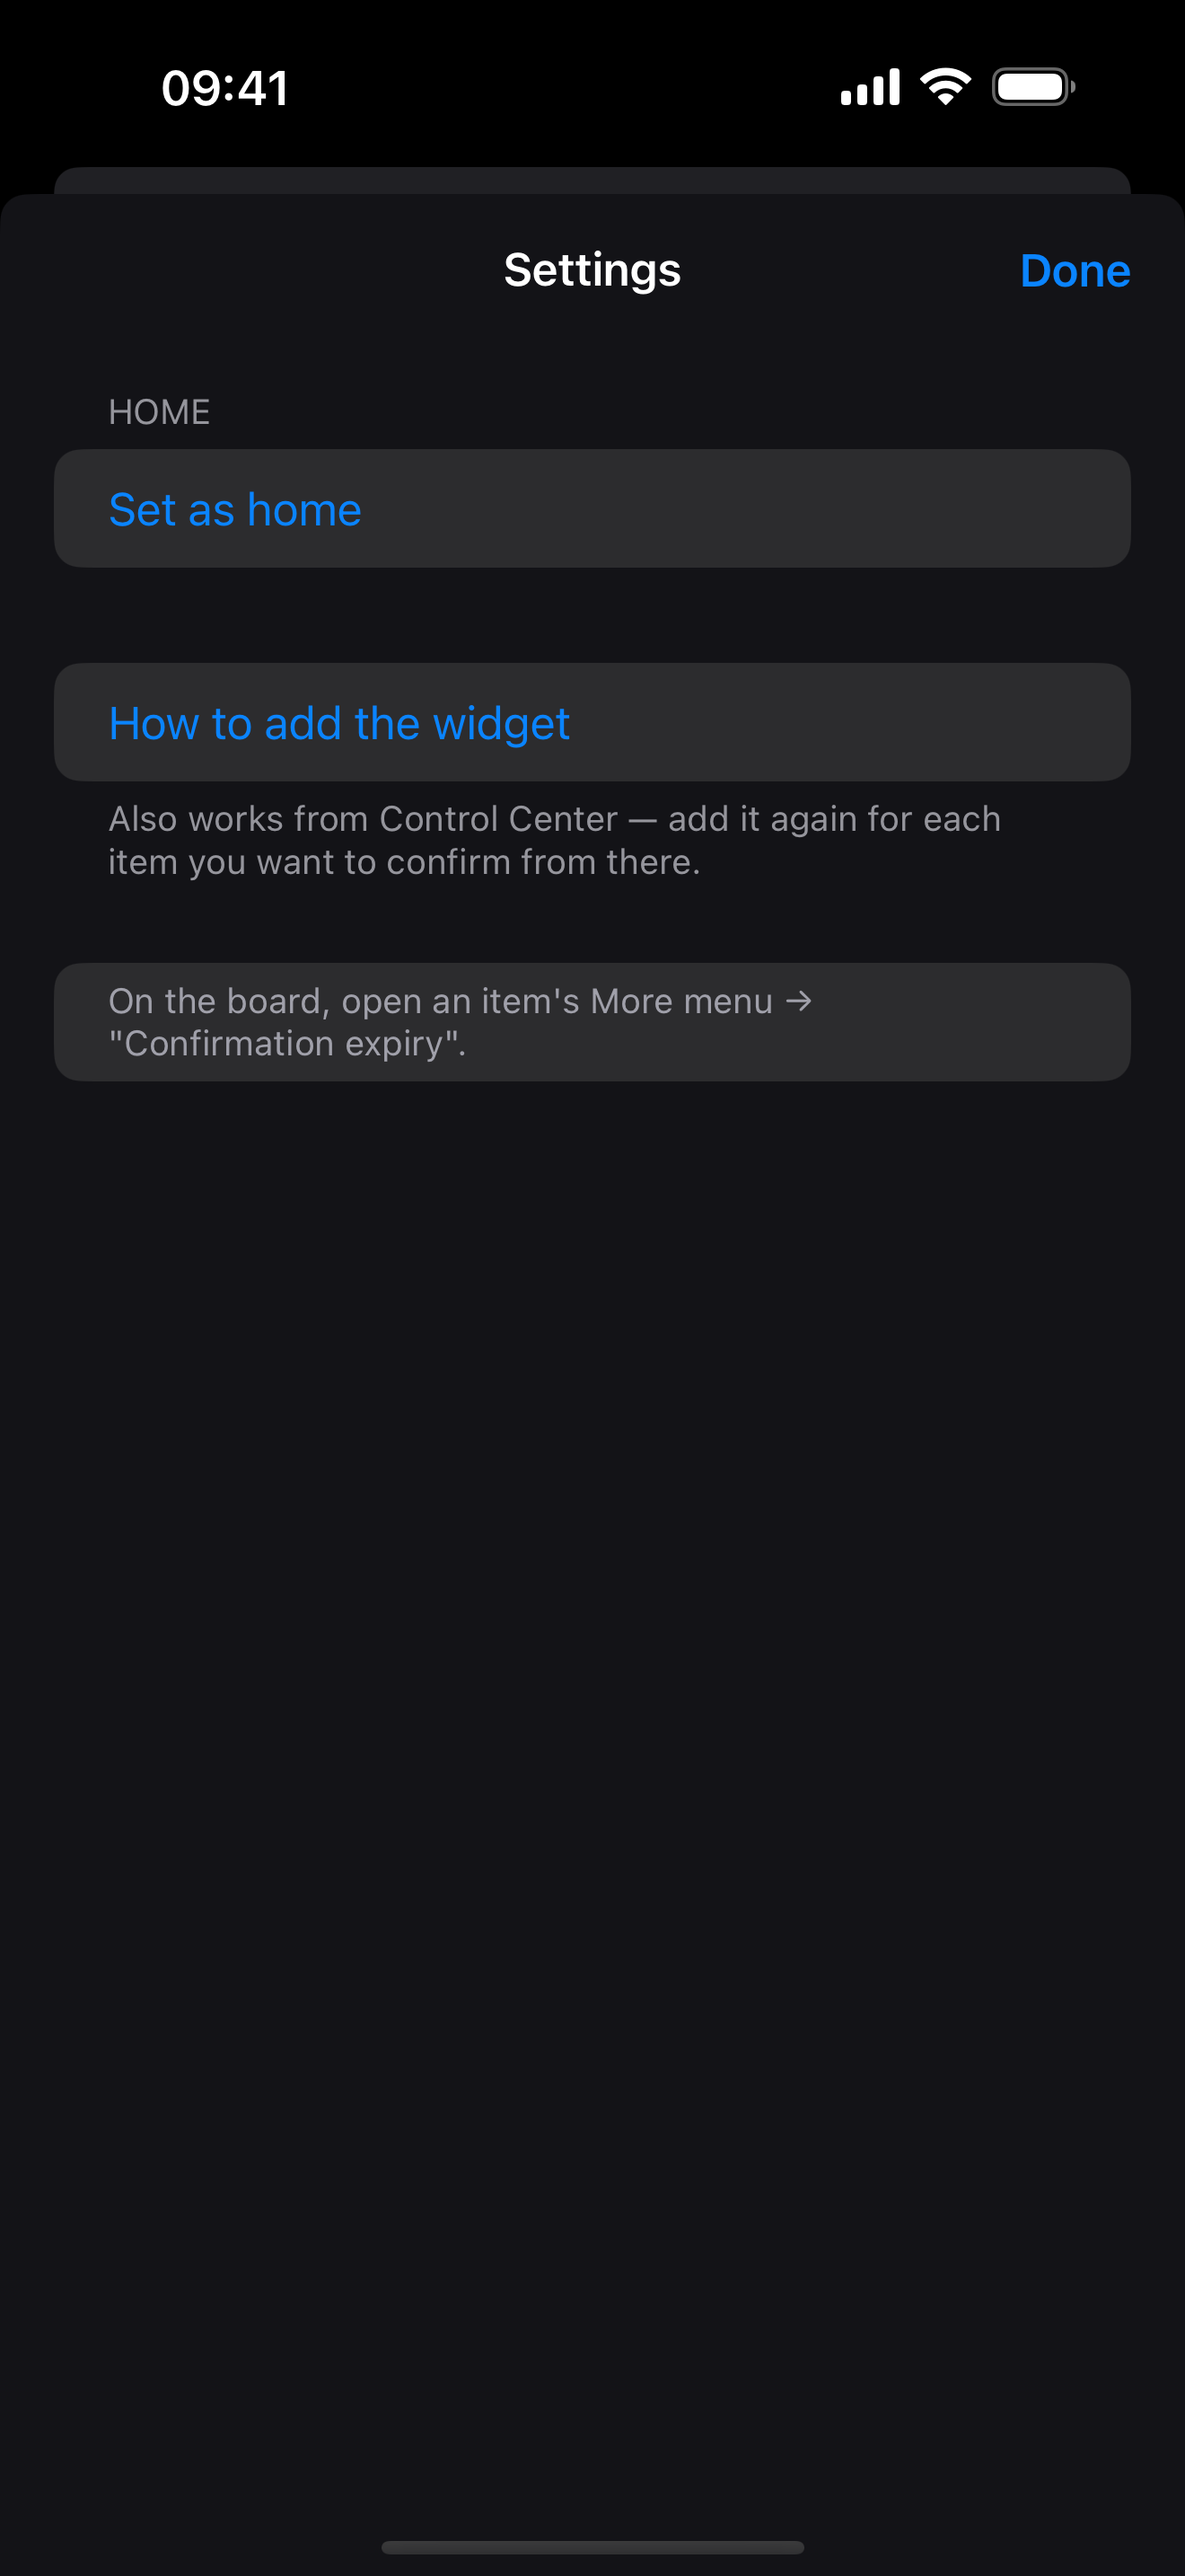
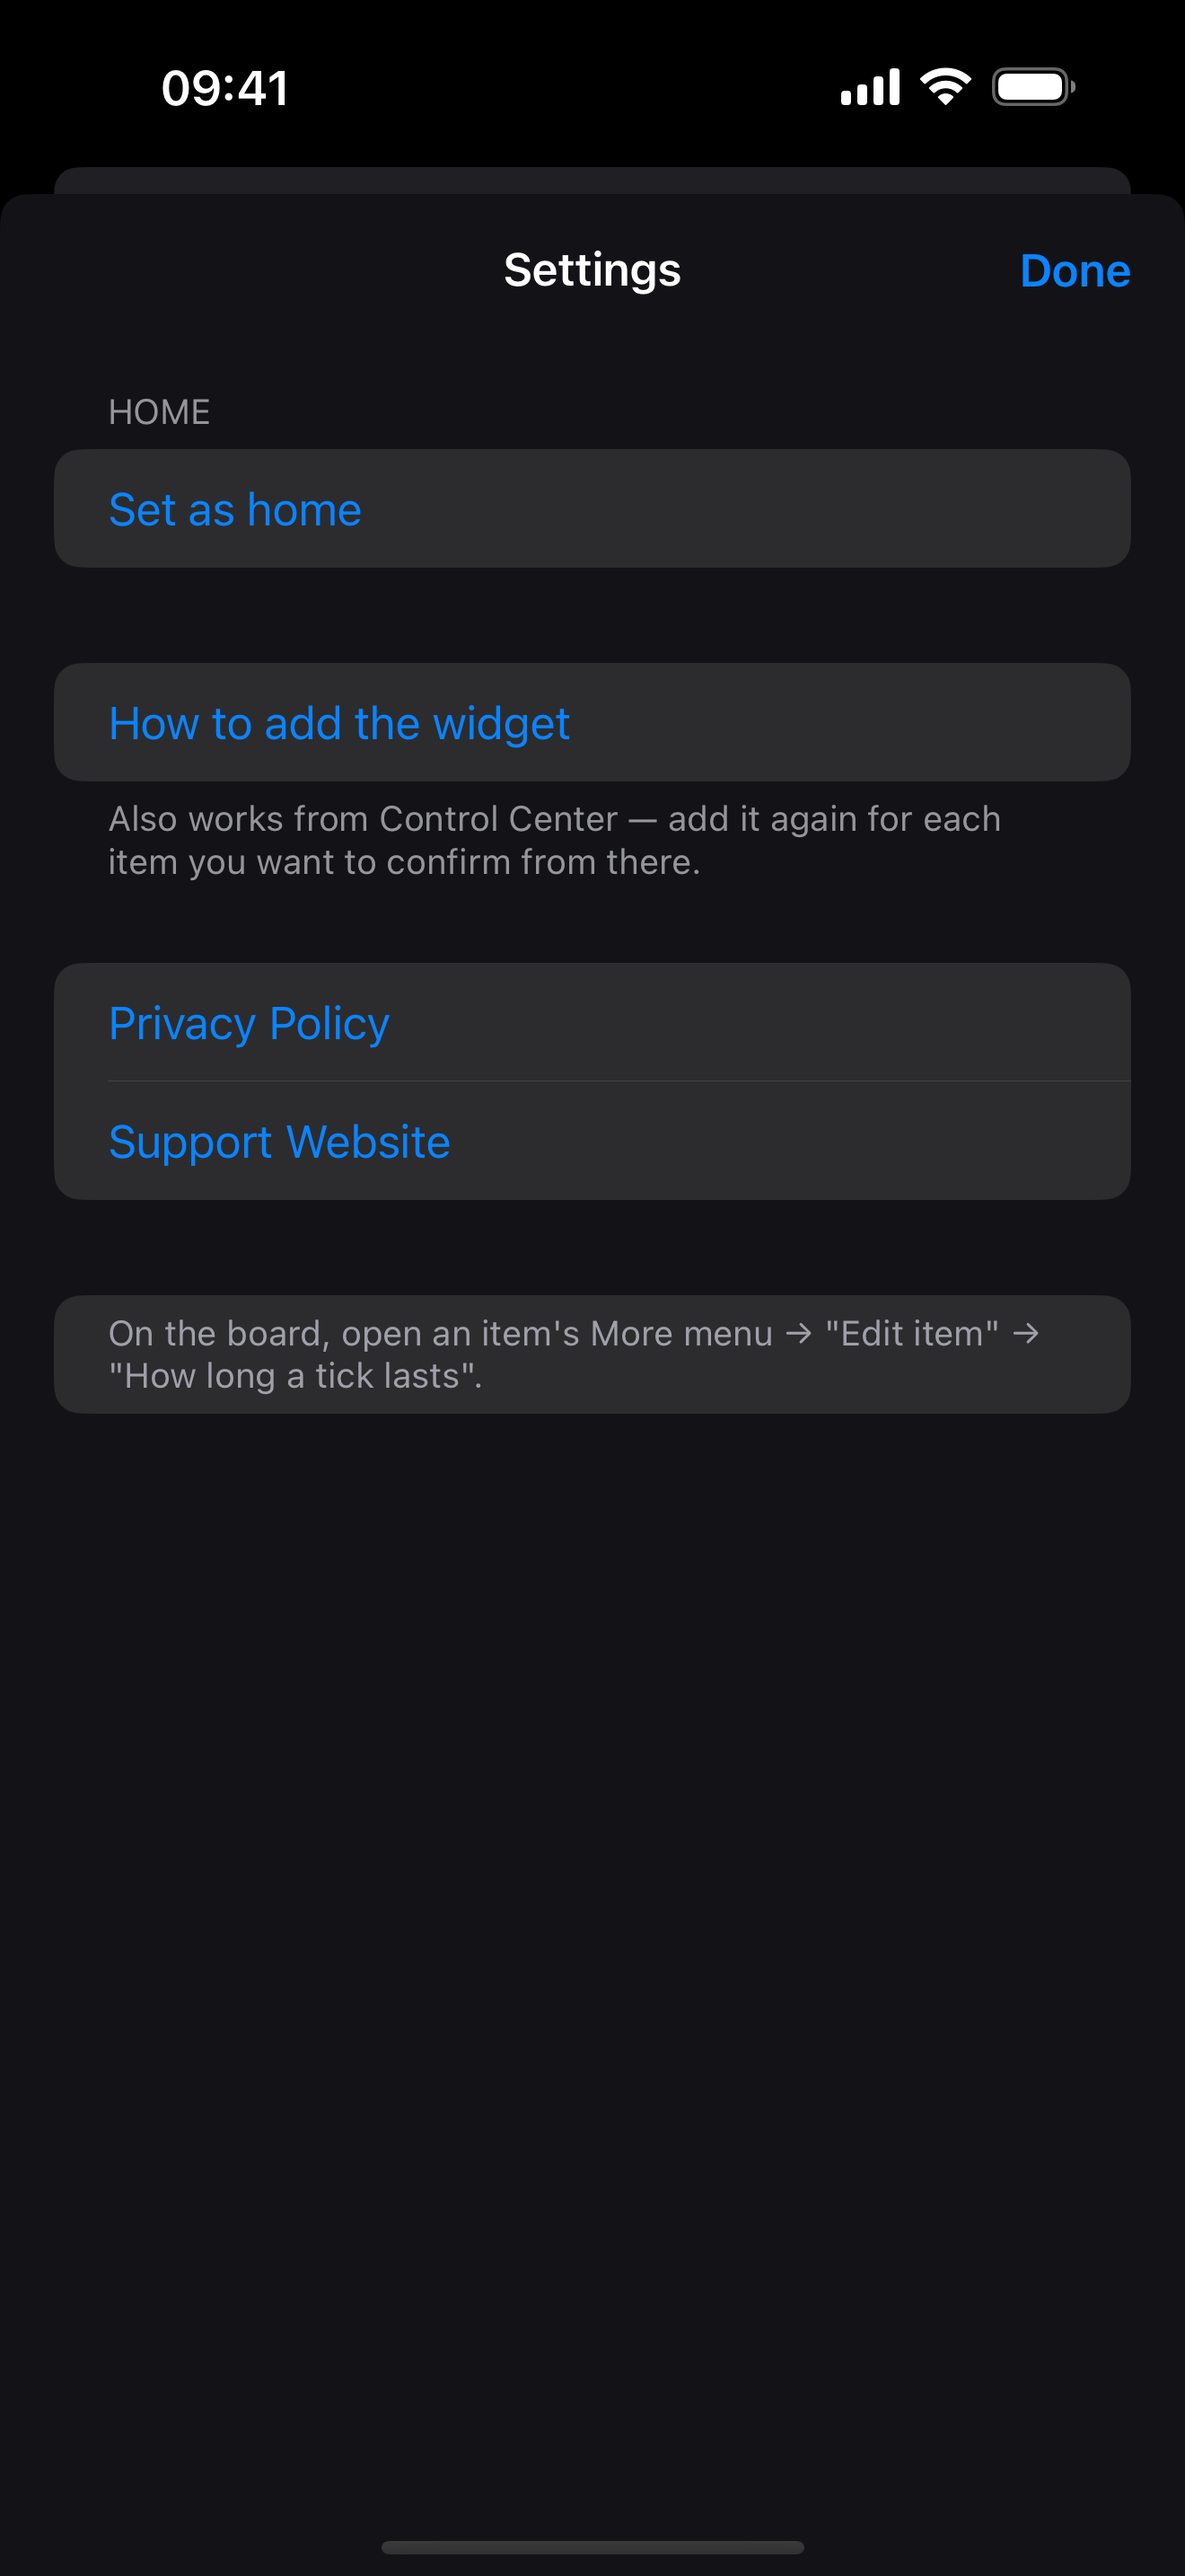
added pre-release artifacts

Changed region(s): [[0.0311, 0.3724, 0.9629, 0.4655], [0.0311, 0.4965, 0.9629, 0.5586]]

diff --git a/DidI/SettingsView.swift b/DidI/SettingsView.swift
@@ -127,6 +127,11 @@ struct SettingsView: View {
                     Text(Copy.controlCenterHint)
                 }
 
+                Section {
+                    Link(Copy.privacyPolicy, destination: AppLinks.privacy)
+                    Link(Copy.supportWebsite, destination: AppLinks.support)
+                }
+
                 if let price = TipJar.shared.product?.displayPrice {
                     Section {
                         Button(Copy.TipJar.rowTitle(price: price)) {
@@ -256,6 +261,11 @@ struct SettingsView: View {
             showingTipError = true
         }
     }
+}
+
+private enum AppLinks {
+    static let privacy = URL(string: "https://guestdi.github.io/did_i/privacy/")!
+    static let support = URL(string: "https://guestdi.github.io/did_i/support/")!
 }
 
 /// Pre-filled share sheet for "Ask someone at home".

diff --git a/DidICore/Sources/DidICore/Copy.swift b/DidICore/Sources/DidICore/Copy.swift
@@ -363,6 +363,8 @@ public enum Copy {
     public static let dismiss = t("Dismiss")
     public static let ok = t("OK")
     public static let settings = t("Settings")
+    public static let privacyPolicy = t("Privacy Policy")
+    public static let supportWebsite = t("Support Website")
     public static let saveFailedTitle = t("Couldn't save that")
     public static let saveFailedBody = t("Your previous record is unchanged. Try again.")
     public static let loadFailedTitle = t("Couldn't open your board")

diff --git a/Tests/UI/AppStoreScreenshotUITests.swift b/Tests/UI/AppStoreScreenshotUITests.swift
@@ -20,6 +20,9 @@ final class AppStoreScreenshotUITests: XCTestCase {
         ).firstMatch
         XCTAssertTrue(practiceRow.waitForExistence(timeout: 3))
         practiceRow.tap()
+        // FlapCell animates each character for 0.28s. Capturing immediately
+        // records both faces on top of one another instead of the settled UI.
+        Thread.sleep(forTimeInterval: 0.6)
         capture("02-one-tap-confirmation")
 
         app.terminate()

diff --git a/AppStore/metadata/ru-RU.md b/AppStore/metadata/ru-RU.md
@@ -6,7 +6,7 @@
 
 **Промотекст (170):** Подтвердите действие перед уходом, а при сомнении взгляните на виджет. Без аккаунта, рекламы и отслеживания.
 
-**Ключевые слова (100 байт):** плита,дверь,замок,список,виджет,дом,проверка
+**Ключевые слова (100 байт):** плита,дверь,замок,список,виджет,дом,проверка,утюг
 
 ## Описание
 
@@ -16,7 +16,7 @@ Did I? даёт точное время вместо догадок.
 
 • Подтверждайте домашние дела одним касанием
 • Смотрите время последнего подтверждения
-• Выбирайте срок действия: заданный интервал, ежедневно до 4:00, до выхода из дома или вручную
+• Выбирайте срок действия: заданный интервал, ежедневно до 4:00, до возвращения домой или вручную
 • Отменяйте случайное касание
 • Добавляйте виджеты для быстрого подтверждения и просмотра статуса
 • Проверяйте недавние подтверждения на Apple Watch
@@ -29,6 +29,12 @@ Did I? даёт точное время вместо догадок.
 • Без серверов разработчика
 • Данные остаются на ваших устройствах
 
-Геопозиция необязательна. Если выбрать «Когда я уйду из дома», Did I? создаст обрабатываемую на устройстве границу области и завершит подтверждение после вашего ухода. Геопозиция нам не отправляется.
+Геопозиция необязательна. Если выбрать «Когда я вернусь домой», Did I? создаст обрабатываемую на устройстве границу области и завершит подтверждение после вашего возвращения. Геопозиция нам не отправляется.
 
 Did I? помогает памяти, но не является системой безопасности. Всё важное всегда проверяйте лично.
+
+## URL-адреса
+
+- Маркетинг: https://guestdi.github.io/did_i/
+- Поддержка: https://guestdi.github.io/did_i/support/
+- Конфиденциальность: https://guestdi.github.io/did_i/privacy/

diff --git a/AppStore/metadata/pl-PL.md b/AppStore/metadata/pl-PL.md
@@ -6,7 +6,7 @@
 
 **Tekst promocyjny (170):** Potwierdź przed wyjściem, a gdy wróci niepewność, zerknij na widżet. Bez konta, reklam i śledzenia.
 
-**Słowa kluczowe (100 bajtów):** kuchenka,drzwi,zamek,lista,przypomnienie,widżet,dom,potwierdzenie,spokój
+**Słowa kluczowe (100 bajtów):** kuchenka,drzwi,zamek,lista,przypomnienie,widżet,dom,rutyna,urządzenie,sprawdź
 
 ## Opis
 
@@ -16,7 +16,7 @@ Stuknij raz po wyłączeniu kuchenki, zamknięciu drzwi, odłączeniu żelazka l
 
 • Potwierdzaj domowe czynności jednym stuknięciem
 • Sprawdzaj czas ostatniego potwierdzenia
-• Ustal wygaśnięcie: po określonym czasie, codziennie o 4:00, po wyjściu z domu albo ręcznie
+• Ustal wygaśnięcie: po określonym czasie, codziennie o 4:00, po powrocie do domu albo ręcznie
 • Cofnij przypadkowe stuknięcie
 • Dodaj widżety do szybkiego potwierdzania i sprawdzania stanu
 • Sprawdzaj ostatnie potwierdzenia na Apple Watch
@@ -29,7 +29,12 @@ Prywatność od podstaw:
 • Bez serwera dewelopera
 • Dane pozostają na Twoich urządzeniach
 
-Lokalizacja jest opcjonalna. Jeśli wybierzesz „Gdy wyjdę z domu”, Did I? użyje granicy obszaru przetwarzanej na urządzeniu, aby wygasić potwierdzenia po wyjściu. Twoja lokalizacja nie jest nam wysyłana.
+Lokalizacja jest opcjonalna. Jeśli wybierzesz „Gdy wrócę do domu”, Did I? użyje granicy obszaru przetwarzanej na urządzeniu, aby wygasić potwierdzenia po powrocie. Twoja lokalizacja nie jest nam wysyłana.
 
 Did I? pomaga pamiętać, ale nie jest systemem bezpieczeństwa. Ważne rzeczy zawsze sprawdzaj bezpośrednio.
 
+## Adresy URL
+
+- Marketing: https://guestdi.github.io/did_i/
+- Pomoc: https://guestdi.github.io/did_i/support/
+- Prywatność: https://guestdi.github.io/did_i/privacy/

diff --git a/AppStore/metadata/en-US.md b/AppStore/metadata/en-US.md
@@ -6,7 +6,7 @@
 
 **Promotional text (170):** Log a confirmation before you leave, then glance at the widget whenever doubt shows up. No account, no ads, no tracking.
 
-**Keywords (100 bytes):** stove,door,lock,checklist,reminder,widget,home,confirm,anxiety,peace of mind
+**Keywords (100 bytes):** stove,door,lock,checklist,reminder,widget,home,routine,appliance,forgot,check
 
 ## Description
 
@@ -16,7 +16,7 @@ Tap once when you switch off the stove, lock the door, unplug the iron, or finis
 
 • Confirm common household checks in one tap
 • See when each item was last confirmed
-• Choose when a confirmation expires: after a duration, every day at 4:00 AM, when you leave home, or manually
+• Choose when a confirmation expires: after a duration, every day at 4:00 AM, when you come home, or manually
 • Undo an accidental tap
 • Add widgets for quick confirmation and at-a-glance status
 • Check recent confirmations from your Apple Watch
@@ -29,7 +29,7 @@ Private by design:
 • No developer server
 • Your data stays on your devices
 
-Location is optional. If you choose “When I leave home,” Did I? uses an on-device region boundary to expire confirmations after you leave. Your location is not sent to us.
+Location is optional. If you choose “When I come home,” Did I? uses an on-device region boundary to expire confirmations after you return. Your location is not sent to us.
 
 Did I? is a memory aid, not a safety system. Always verify anything important directly.
 
@@ -38,4 +38,3 @@ Did I? is a memory aid, not a safety system. Always verify anything important di
 - Marketing: https://guestdi.github.io/did_i/
 - Support: https://guestdi.github.io/did_i/support/
 - Privacy: https://guestdi.github.io/did_i/privacy/
-

diff --git a/CLAUDE.md b/CLAUDE.md
@@ -31,8 +31,9 @@ Full reasoning: `architecture.md` §1.
 
 ## Known standing gaps (as of last check)
 
-- `DEVELOPMENT_TEAM` is set (`3VRYJ7457W`) in `project.yml`, but App Group `group.com.dihnatovich.didi` registration in the dev account itself (assigned to the DidI, DidIWidget, and DidIWatch targets) is still unverified. Blocking prerequisite before any device testing or archiving.
+- App Group `group.com.dihnatovich.didi` registration confirmed working — repeated physical-device installs this week have read and written the shared store correctly across the DidI and DidIWidget targets.
 - Overnight widget timeline behavior (04:00 transition) confirmed working on a real device soak.
+- Widget refresh after a location-driven state change (geofence entry/exit) can lag behind the app by minutes to hours under heavy same-day testing — WidgetKit's background reload budget throttles `reloadTimelines`/`reloadAllTimelines` calls, with no app-side way to check or override it. Not a code bug; confirm by removing and re-adding the widget (placement-time refresh isn't budget-gated) or waiting for the budget to refill.
 - Lock screen widget's App Group file may be unreadable before first unlock (data protection). `ConfirmItemIntent`/`SetConfirmedIntent` use `try StoreIO.mutate` (not `try?`), so a throw propagates to the AppIntent system rather than failing silently — but the on-device behavior before first unlock is still unverified.
 - Widget configuration sheet (item picker) reads from the extension's own bundle; pl/ru string files exist (`DidIWidget/{pl,ru}.lproj`) but the picker UI itself is untested in those locales.
 - IBM Plex Mono not bundled; SF Mono stands in for flap cells (not visually final).

diff --git a/AppStore/review-notes.md b/AppStore/review-notes.md
@@ -1,7 +1,7 @@
 # App Review notes
 
-Did I? is a local-only memory aid. No login, account, subscription, purchase,
-backend, or special test credentials are required.
+Did I? is a local-only memory aid. No login, account, subscription, backend, or
+special test credentials are required. No purchase is exposed in version 1.0.
 
 ## Suggested review path
 
@@ -15,10 +15,10 @@ backend, or special test credentials are required.
 ## Location permission
 
 Location is optional and is not requested during initial setup. A reviewer can
-choose the “When I leave home” expiry option to test it. The app requests permission
-only for an on-device circular region around the saved home coordinate. It does not
-continuously display, upload, sell, or share location. Denying permission leaves all
-other expiry options fully usable.
+set a home and choose the “When I come home” expiry option to test it. The app
+requests permission only for an on-device circular region around the saved home
+coordinate. It does not continuously display, upload, sell, or share location.
+Denying permission leaves all other expiry options fully usable.
 
 ## Notifications
 
@@ -27,4 +27,3 @@ can be declined without limiting confirmation functionality.
 
 Did I? is not a safety system. Its board state is derived from the latest confirmation
 timestamp and the user's chosen expiry rule.
-

diff --git a/AppStore/age-rating.md b/AppStore/age-rating.md
@@ -1,20 +1,35 @@
 # Age rating questionnaire
 
-Select **None** / **No** for every content-frequency and capability question:
+Select **None** / **No** for every current content-frequency, in-app control,
+and capability question:
+
+## In-app controls and capabilities
+
+- Parental controls
+- Age assurance
+- Unrestricted web access
+- User-generated content
+- Social media, including social media disabled for users under 13
+- Messaging and chat
+- Advertising
+
+## Content descriptors
 
 - Cartoon or fantasy violence
-- Realistic or prolonged graphic violence
+- Realistic violence
+- Prolonged graphic or sadistic realistic violence
+- Guns or other weapons
 - Profanity or crude humor
 - Mature or suggestive themes
 - Horror or fear themes
 - Medical or treatment information
+- Health or wellness topics
 - Alcohol, tobacco, or drug references
-- Sexual content or nudity
-- Contests, gambling, or simulated gambling
-- Unrestricted web access
-- User-generated content or messaging
+- Sexual content or nudity, including graphic content
+- Contests
+- Gambling or simulated gambling
+- Loot boxes
 
 The app is a household memory aid and contains no external content. Accept the
 lowest rating App Store Connect calculates from these answers; do not manually
 promise a specific badge because Apple's displayed age bands can vary by storefront.
-

diff --git a/AppStore/screenshots/README.md b/AppStore/screenshots/README.md
@@ -4,9 +4,9 @@ Upload the files in display order:
 
 ## iPhone 6.9-inch display
 
-1. `en-US/iPhone-6.9/01-choose-what-matters.png`
+1. `en-US/iPhone-6.9/03-current-at-a-glance.png`
 2. `en-US/iPhone-6.9/02-one-tap-confirmation.png`
-3. `en-US/iPhone-6.9/03-current-at-a-glance.png`
+3. `en-US/iPhone-6.9/01-choose-what-matters.png`
 4. `en-US/iPhone-6.9/04-expiry-you-control.png`
 5. `en-US/iPhone-6.9/05-private-by-design.png`
 
